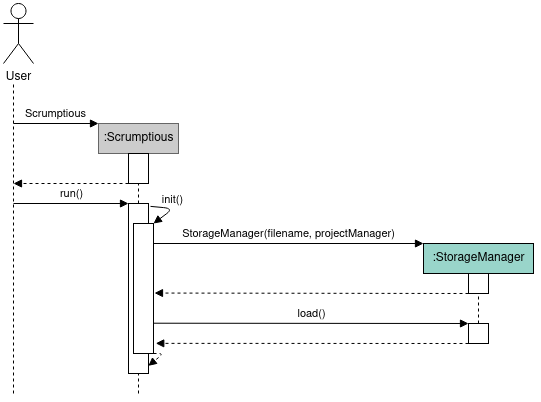
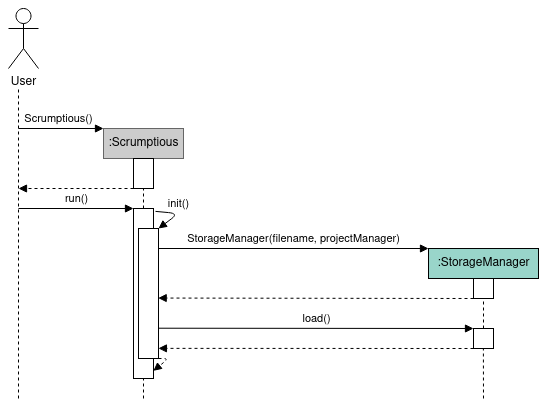
Fix developer guide - Fix arrows not touching the bars - Change storage location image to display side-by-side

Changed region(s): [[0.0296, 0.2687, 1.0, 0.9851], [0.0, 0.0, 0.0591, 0.209]]

diff --git a/docs/DeveloperGuide.md b/docs/DeveloperGuide.md
@@ -492,11 +492,9 @@ Implementation:
 To make the data persistent and portable, JSON has been chosen as the format for data to be saved to a persistent storage such as storage drives, thumb drives and any other storage medium which stores the program. JSON is also **human-readable** which allows users to directly modify the data file easily. 
 This can be useful in certain scenarios such as fixing the data file in the event of data corruption.
 
-#### Location
-![Figure X: Running the Jar](image/developerguide/savingdata1.png "Running the Jar")  
-_Figure X: Running the Jar_  
-![Figure X: Running in IDE](image/developerguide/savingdata2.png "Running in IDE")  
-_Figure X: Running in IDE_  
+#### Location  
+![Figure X: Running the Jar](image/developerguide/storage_save_directory.png "Running the Jar")  
+_Figure X: Running the Jar or in IDE_
 
 As shown in the above diagram, the program will save the data as _"data.json"_. The data file is saved in the _“data/”_ folder that is located in the folder of the program. If you are testing the program using Intellij IDE, the _“data/”_ folder will be in the root of the project folder.  
 When you start the program, the program will load the data file from its respective location and deserialise it into its respective objects. Data will be saved when the program exits or whenever the user makes changes to the program.  
